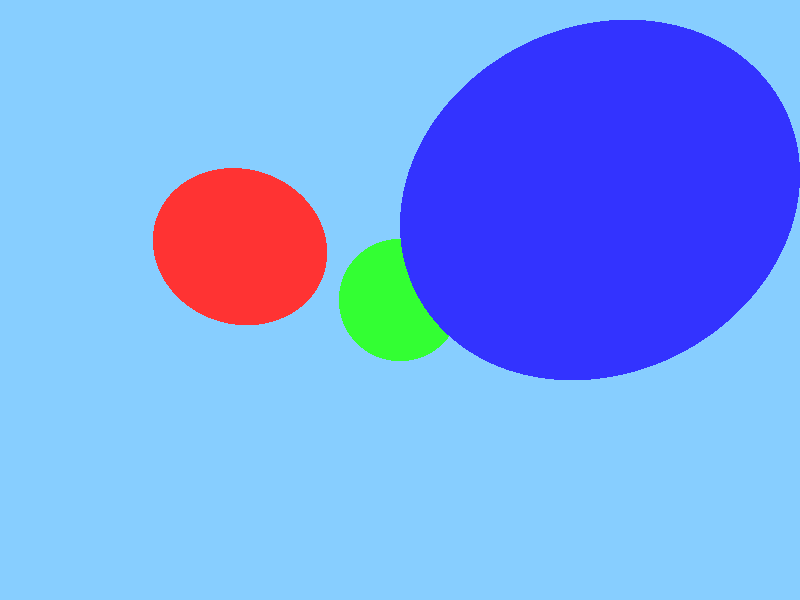
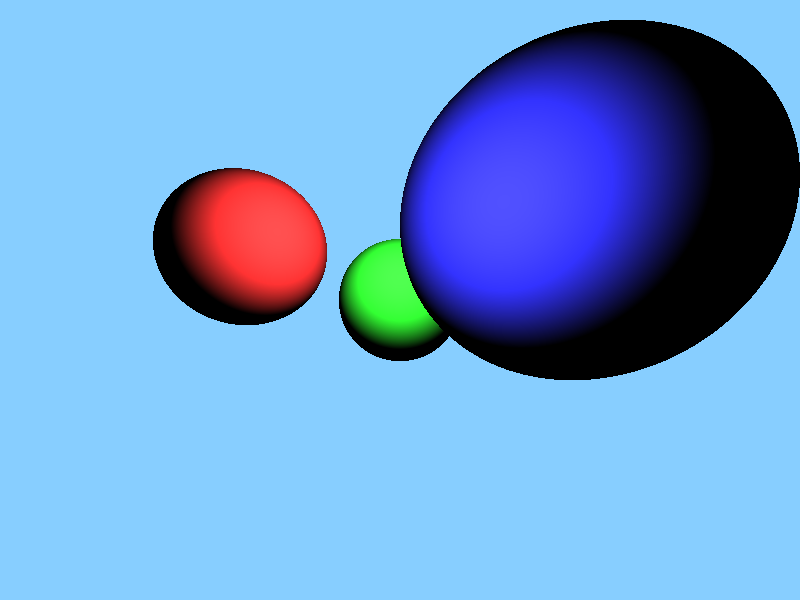
normal is taken into account

Changed region(s): [[0.1875, 0.03, 1.0, 0.66], [0.5625, 0.27, 0.6875, 0.42], [0.3438, 0.3, 0.375, 0.33]]

diff --git a/src/render_system.rs b/src/render_system.rs
@@ -1,9 +1,10 @@
-use crate::{Scene, CameraNode, Node, Ray, Color};
+use crate::{Scene, CameraNode, Node, Ray, Color, Light};
 use std::rc::{Rc};
 use std::cell::RefCell;
 use image::{DynamicImage, GenericImage, Pixel, Rgba, ImageFormat};
 use std::fs::{OpenOptions};
 use std::f64;
+use cgmath::{InnerSpace, Vector3};
 
 pub struct RenderSystem {
     pub output_path: String,
@@ -32,8 +33,8 @@ impl RenderSystem {
                 match RenderSystem::get_intersection_obj(&ray, root) {
                     None => image.put_pixel(x, y, back),
                     Some(a) => {
-                        let c = value!(a.obj).get_color();
-                        image.put_pixel(x, y, Rgba::from_channels(c.red as u8, c.green as u8, c.blue as u8, 0))
+                        let c = RenderSystem::get_color(&scene, &ray, &a);
+                        image.put_pixel(x, y, Rgba::from_channels(c.red(), c.green(), c.blue(), 0))
                     },
                 };
             }
@@ -71,22 +72,42 @@ impl RenderSystem {
             };
         }
 
-        let distance = match value!(node).intersect(&ray) {
-            None => cur_distance,
-            Some(x) => x
+        let intersect = match value!(node).intersect(&ray) {
+            None => return cur_obj,
+            Some(x) => (x.0, x.1)
         };
 
-        if distance < cur_distance {
+        if intersect.0 < cur_distance {
             cur_obj = Some(IntersectionObject {
-                distance: distance,
+                distance: intersect.0,
                 obj: Rc::clone(&node),
+                normal: intersect.1,
             });
         }
         return cur_obj;
+    }
+
+    fn get_color(scene: &Scene, ray: &Ray, intersection: &IntersectionObject) -> Color {
+        //let hit_point = ray.origin + (ray.direction * intersection.distance);
+        //let surface_normal = intersection.element.surface_normal(&hit_point);
+        let direction_to_light = -value!(scene.lights).direction.normalize();
+        let light_power = (intersection.normal.dot(direction_to_light) as f32);
+        //println!("{}", light_power);
+        //let light_power = (light_power).max(0.0);
+        //println!("{}", light_power);
+        let light_power = (light_power).max(0.0) * value!(scene.lights).intensity;
+        //
+        
+        let light_reflected = 1.0 / std::f32::consts::PI;
+        //println!("{}", light_power);
+
+        let color = value!(intersection.obj).get_color().copy() * value!(scene.lights).color.copy() * light_power * light_reflected;
+        color.clamp()
     }
 }
 
 struct IntersectionObject {
     pub distance: f64,
     pub obj: Rc<RefCell<Node>>,
+    pub normal: Vector3<f64>,
 }

diff --git a/src/main.rs b/src/main.rs
@@ -7,7 +7,7 @@ pub mod node_3d;
 pub mod scene;
 pub mod scene_items;
 pub mod render_system;
-
+pub mod light;
 
 //use self::utils::Utils;
 extern crate cgmath;
@@ -18,6 +18,7 @@ use self::sphere_node::SphereNode;
 use self::scene_items::{Color, Ray};
 use self::node::Node; 
 use self::render_system::RenderSystem;
+use self::light::Light;
 
 use cgmath::{Point3, Vector3, Matrix4};
 use std::rc::{Weak, Rc};
@@ -40,7 +41,7 @@ fn main() {
 
     let root_move = Rc::clone(&root);
     let cam_move = Rc::clone(&camera);
-    let scene = Scene::new("main_scene".to_string(), root_move, cam_move);
+    let mut scene = Scene::new("main_scene".to_string(), root_move, cam_move);
 
     //-------------- Add Sphere's to Scene ------------
 
@@ -48,21 +49,21 @@ fn main() {
         "Sphere 1".to_string(),
         Matrix4::from_translation(Vector3::new(0.0, 0.0, -5.0)),
         1.0,
-        Color::new(51.0, 255.0, 51.0)
+        Color::new_rgb(51, 255, 51)
     )));
 
     let sphere2 = Rc::new(RefCell::new(SphereNode::new(
         "Sphere 2".to_string(),
         Matrix4::from_translation(Vector3::new(-3.0, 1.0, -6.0)),
         1.5,
-        Color::new(255.0, 51.0, 51.0)
+        Color::new_rgb(255, 51, 51)
     )));
 
     let sphere3 = Rc::new(RefCell::new(SphereNode::new(
         "Sphere 3".to_string(),
         Matrix4::from_translation(Vector3::new(2.0, 1.0, -4.0)),
         2.0,
-        Color::new(51.0, 51.0, 255.0)
+        Color::new_rgb(51, 51, 255)
     )));
 
     let sphere_root = Rc::new(RefCell::new(Node3D::new(
@@ -74,6 +75,18 @@ fn main() {
     value!(sphere_root).add_child(sphere2);
     value!(sphere_root).add_child(sphere3);
     value!(root).add_child(sphere_root);
+    
+    //----------- Add Light to Scene ----------
+    let light = Rc::new(RefCell::new(Light::new(
+        "Light".to_string(),
+        Matrix4::from_translation(Vector3::new(2.0, 1.0, -4.0)),
+        Vector3::new(0.0, -1.0, 2.0),
+        Color::new_rgb(255, 255, 255),
+        5.0
+    )));
+
+    scene.lights = Rc::clone(&light);
+
     //------------ Render Scene ---------------
     
     let renderer = RenderSystem {

diff --git a/src/scene_items.rs b/src/scene_items.rs
@@ -1,5 +1,6 @@
 use cgmath::{InnerSpace, Vector3, Point3};
 use image::{Pixel, Rgba};
+use std::ops::{Mul};
 
 pub struct Color {
     pub red: f32,
@@ -16,15 +17,67 @@ impl Color {
         }
     }
 
+    pub fn new_rgb(r: u8, g: u8, b: u8) -> Color {
+        Color {
+            red: (r as f32)  / 255.0,
+            green: (g as f32) / 255.0,
+            blue: (b as f32) / 255.0,
+        }
+    }
+
+    pub fn clamp(&self) -> Color {
+        Color {
+            red: self.red.min(1.0).max(0.0),
+            blue: self.blue.min(1.0).max(0.0),
+            green: self.green.min(1.0).max(0.0),
+        }
+    }
+
     pub fn to_rgba(&self) -> Rgba<u8> {
-        Rgba::from_channels(self.red as u8,
-                        self.green as u8,
-                        self.blue as u8,
+        Rgba::from_channels((self.red * 255.0) as u8,
+                        (self.green * 255.0) as u8,
+                        (self.blue * 255.0) as u8,
                         255)
     }
 
     pub fn copy(&self) -> Color {
         return Color::new(self.red, self.green, self.blue);
+    }
+
+    pub fn red(&self) -> u8 {
+        return (self.red * 255.0) as u8;
+    }
+    
+    pub fn green(&self) -> u8 {
+        return (self.green * 255.0) as u8;
+    }
+    
+    pub fn blue(&self) -> u8 {
+        return (self.blue * 255.0) as u8;
+    }
+}
+
+impl Mul for Color {
+    type Output = Color;
+
+    fn mul(self, other: Color) -> Color {
+        Color {
+            red: self.red * other.red,
+            blue: self.blue * other.blue,
+            green: self.green * other.green,
+        }
+    }
+}
+
+impl Mul<f32> for Color {
+    type Output = Color;
+
+    fn mul(self, other: f32) -> Color {
+        Color {
+            red: self.red * other,
+            blue: self.blue * other,
+            green: self.green * other,
+        }
     }
 }
 

diff --git a/src/sphere_node.rs b/src/sphere_node.rs
@@ -54,7 +54,7 @@ impl Node for SphereNode {
         return self.size;
     }
 
-    fn intersect(&self, ray: &Ray) -> Option<f64> {
+    fn intersect(&self, ray: &Ray) -> Option<(f64, Vector3<f64>)> {
         let origin = Vector3::new(ray.origin.x, ray.origin.y, ray.origin.z);
         let l = origin - self.frame_transform.w.truncate();
 
@@ -74,8 +74,11 @@ impl Node for SphereNode {
         // }
 
         let distance = if t0 < t1 { t0 } else { t1 };
+        let hit_point = ray.origin + (ray.direction * -distance);
+        let normal = hit_point - self.frame_transform.w.truncate();
+        let normal = Vector3::new(normal.x, normal.y, normal.z).normalize();
         
-        Some(distance)
+        Some((distance, normal))
     }
 
     fn get_color(&self) -> Color {

diff --git a/src/scene.rs b/src/scene.rs
@@ -1,7 +1,7 @@
 extern crate image;
 extern crate cgmath;
 
-use crate::{CameraNode, Node, RenderSystem};
+use crate::{CameraNode, Node, RenderSystem, Light};
 use std::rc::{Rc};
 use std::cell::RefCell;
 
@@ -14,6 +14,7 @@ pub struct Scene {
     pub root: Rc<RefCell<Node>>,
     pub name: String,
     //pub mainCamera: Rc<RefCell<CameraNode>>,
+    pub lights: Rc<RefCell<Light>>,
     pub renderer: Rc<RefCell<RenderSystem>>,
 }
 
@@ -23,6 +24,7 @@ impl Scene {
             root: root,
             name: name,
             //mainCamera: camera,
+            lights: Rc::new(RefCell::new(Light::off_light())),
             renderer: Rc::new(RefCell::new(RenderSystem {output_path: "output.png".to_string()})),
         }
     }

diff --git a/src/node.rs b/src/node.rs
@@ -1,6 +1,7 @@
 use std::rc::Rc;
 use std::cell::RefCell;
 use crate::{Ray, Color};
+use cgmath::Vector3;
 
 pub trait Node {
     fn get_parent(&self) -> Option<Rc<RefCell<Node>>>;
@@ -8,5 +9,5 @@ pub trait Node {
     fn add_child(&mut self, node: Rc<RefCell<Node>>);
     fn get_color(&self) -> Color;
     fn get_size(&self) -> usize;
-    fn intersect(&self, ray: &Ray) -> Option<f64>;
+    fn intersect(&self, ray: &Ray) -> Option<(f64, Vector3<f64>)>;
 }

diff --git a/src/node_3d.rs b/src/node_3d.rs
@@ -1,6 +1,6 @@
 use crate::{Node, Ray, Color};
 use std::rc::{Weak, Rc};
-use cgmath::{Matrix4};
+use cgmath::{Matrix4, Vector3};
 use std::cell::RefCell;
 
 pub struct Node3D {
@@ -59,7 +59,7 @@ impl Node for Node3D {
         return self.size;
     }
 
-    fn intersect(&self, ray: &Ray) -> Option<f64> {
+    fn intersect(&self, ray: &Ray) -> Option<(f64, Vector3<f64>)> {
         return None;
     }
 

diff --git a/src/camera_node.rs b/src/camera_node.rs
@@ -62,7 +62,7 @@ impl Node for CameraNode {
         return self.size;
     }
 
-    fn intersect(&self, ray: &Ray) -> Option<f64> {
+    fn intersect(&self, ray: &Ray) -> Option<(f64, Vector3<f64>)> {
         return None;
     }
 
